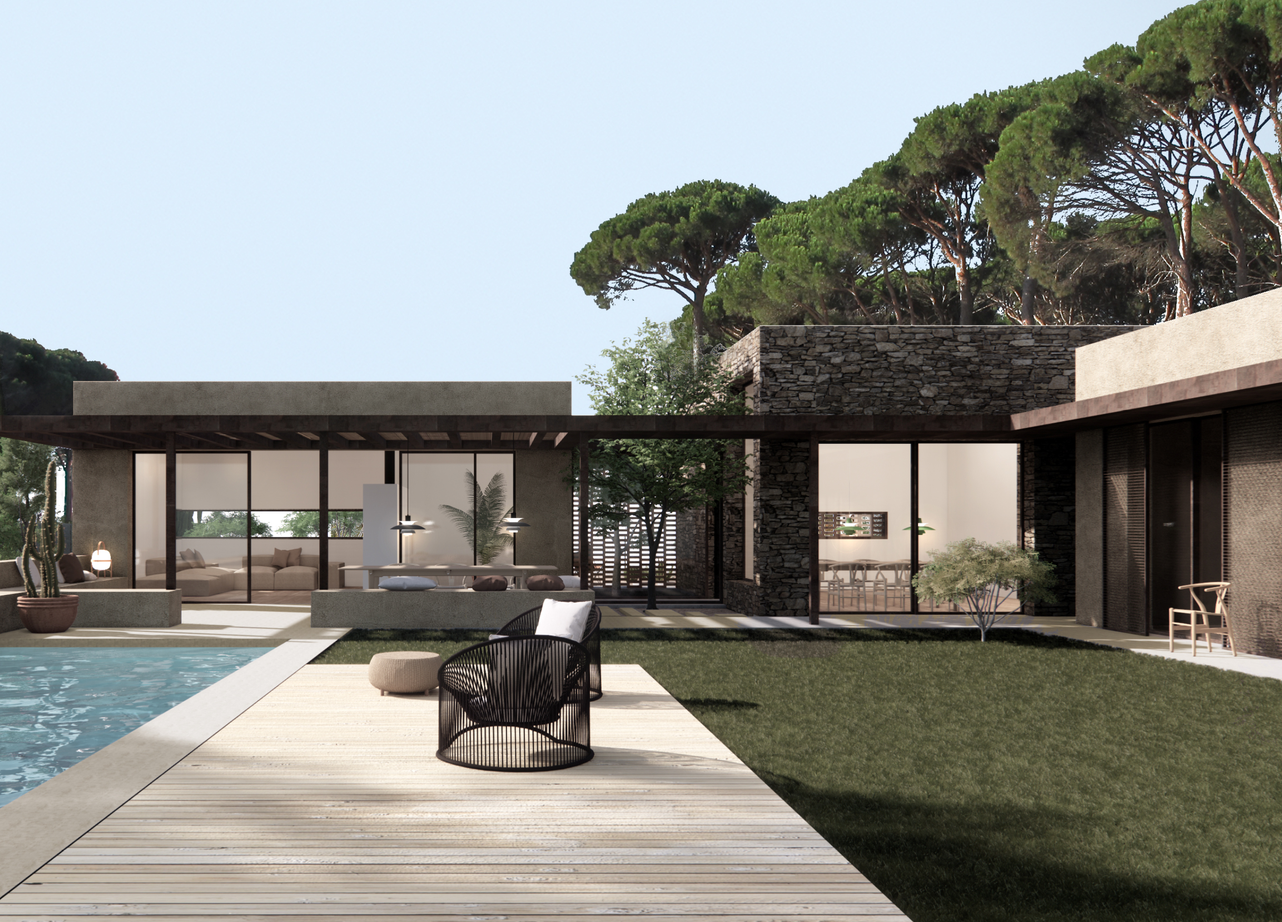
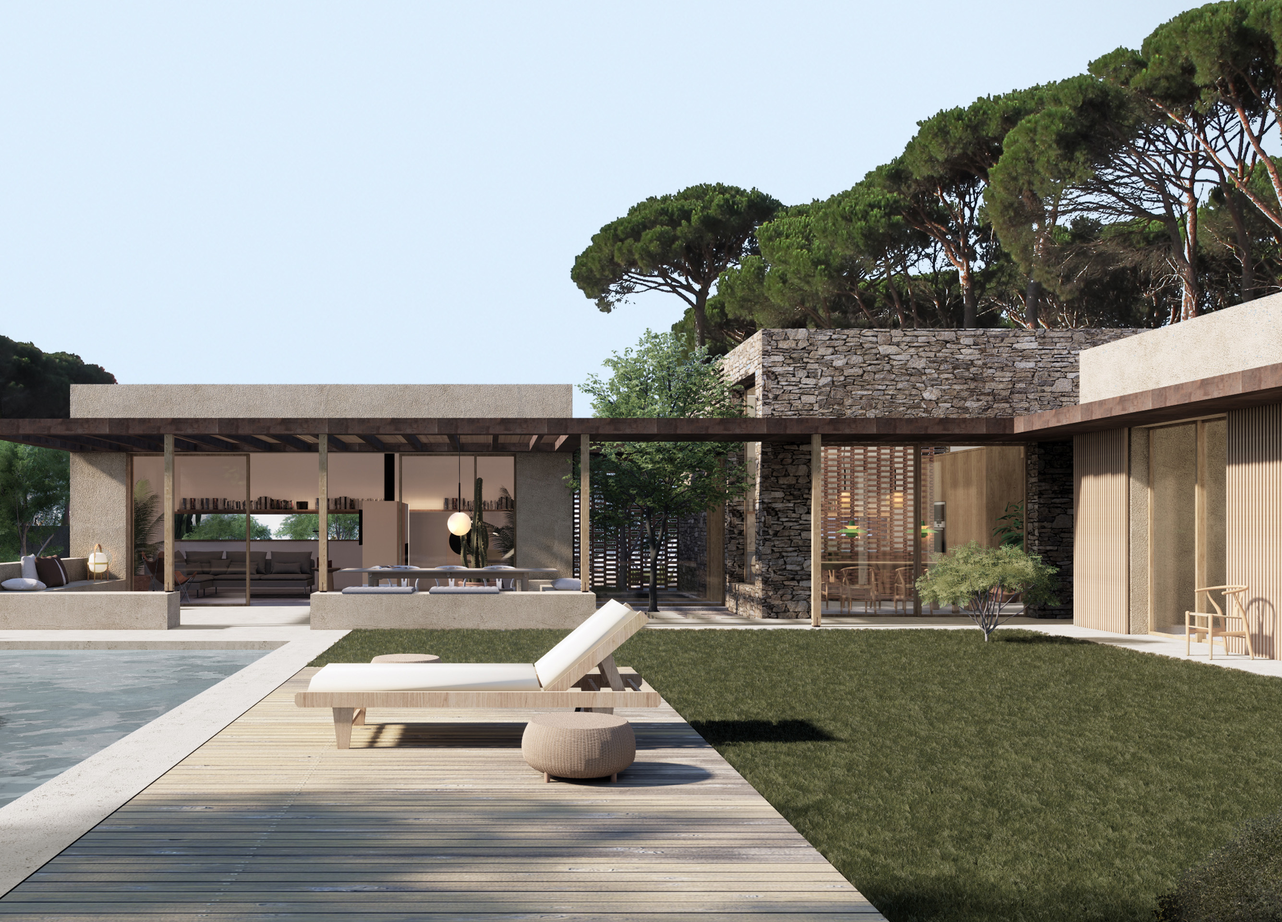
new images for building destacadas, new images for gualta

diff --git a/lib/architecture_category.js b/lib/architecture_category.js
@@ -95,16 +95,6 @@ const architecture_items = [
     year: 2014,
     location: "C/Dr. Roux, Barcelona",
     expedient: "123ABC",
-    imageURL: "/photos/projects_architecture/04.Varios/Varios_1.jpg",
-    isLandscape: false,
-    spaced: 2
-  },
-  {
-    project_id: "VRI1",
-    title: "Private House",
-    year: 2014,
-    location: "C/Dr. Roux, Barcelona",
-    expedient: "123ABC",
     imageURL: "/photos/projects_architecture/04.Varios/Varios_3.jpg",
     isLandscape: true,
     spaced: 0
@@ -117,7 +107,7 @@ const architecture_items = [
     expedient: "123ABC",
     imageURL: "/photos/projects_architecture/05.Vilanova/Vilanova_3.jpg",
     isLandscape: false,
-    spaced: 0
+    spaced: 1
   },
   {
     project_id: "STG1",
@@ -157,16 +147,6 @@ const architecture_items = [
     expedient: "123ABC",
     imageURL: "/photos/projects_building/02.Magatzem/Magatzem_1.jpg",
     isLandscape: false,
-    spaced: 0
-  },
-  {
-    project_id: "MGT1",
-    title: "Industrial warehouse",
-    year: 2016,
-    location: "Madrid",
-    expedient: "123ABC",
-    imageURL: "/photos/projects_building/02.Magatzem/Magatzem_2.jpg",
-    isLandscape: true,
     spaced: 1
   },
   {

diff --git a/lib/architecture_projects.js b/lib/architecture_projects.js
@@ -78,6 +78,36 @@ const architecture_projects = [
         image: "/photos/projects_architecture/07.Gualta/Gualta_3.jpg",
         isLandscape: true,
         text: ""
+      },
+      {
+        imageId: "GLT3", 
+        title: "Gualta",
+        year: 2019,
+        location: "Gualta",
+        expedient: "123JIK",
+        image: "/photos/projects_architecture/07.Gualta/Gualta_4.jpg",
+        isLandscape: true,
+        text: ""
+      },
+      {
+        imageId: "GLT3", 
+        title: "Gualta",
+        year: 2019,
+        location: "Gualta",
+        expedient: "123JIK",
+        image: "/photos/projects_architecture/07.Gualta/Gualta_5.jpg",
+        isLandscape: true,
+        text: ""
+      },
+      {
+        imageId: "GLT3", 
+        title: "Gualta",
+        year: 2019,
+        location: "Gualta",
+        expedient: "123JIK",
+        image: "/photos/projects_architecture/07.Gualta/Gualta_6.jpg",
+        isLandscape: true,
+        text: ""
       }
     ]
   },

diff --git a/lib/building_category.js b/lib/building_category.js
@@ -7,7 +7,7 @@ const building_items = [
     expedient: "123ABC",
     imageURL: "/photos/projects_building/00.Varios/6.jpg",
     isLandscape: true,
-    spaced: 0
+    spaced: 1
   },      
   {
     project_id: "VR1", 
@@ -15,7 +15,7 @@ const building_items = [
     year: 2019,
     location: "Barcelona",
     expedient: "123ABC",
-    imageURL: "/photos/projects_building/00.Varios/Varios_1.jpg",
+    imageURL: "/photos/projects_building/00.Varios/Varios_4.jpg",
     isLandscape: true,
     spaced: 0
   },
@@ -25,8 +25,8 @@ const building_items = [
     year: 2019,
     location: "Barcelona",
     expedient: "123ABC",
-    imageURL: "/photos/projects_building/00.Varios/Varios_2.jpg",
-    isLandscape: true,
+    imageURL: "/photos/projects_building/00.Varios/7.png",
+    isLandscape: false,
     spaced: 0
   },
 ]

diff --git a/components/CarouselPage/index.js b/components/CarouselPage/index.js
@@ -142,7 +142,6 @@ export default function CarouselPage({
                 <CarouselItem
                   key={i}
                   category={category}
-                  isBuildingVariant={i === 3 && category === 'building'}
                   isFirstElement={i === 0}
                   isLandscape={data.isLandscape}
                   isLightingVariant={data.isLightingVariant}
